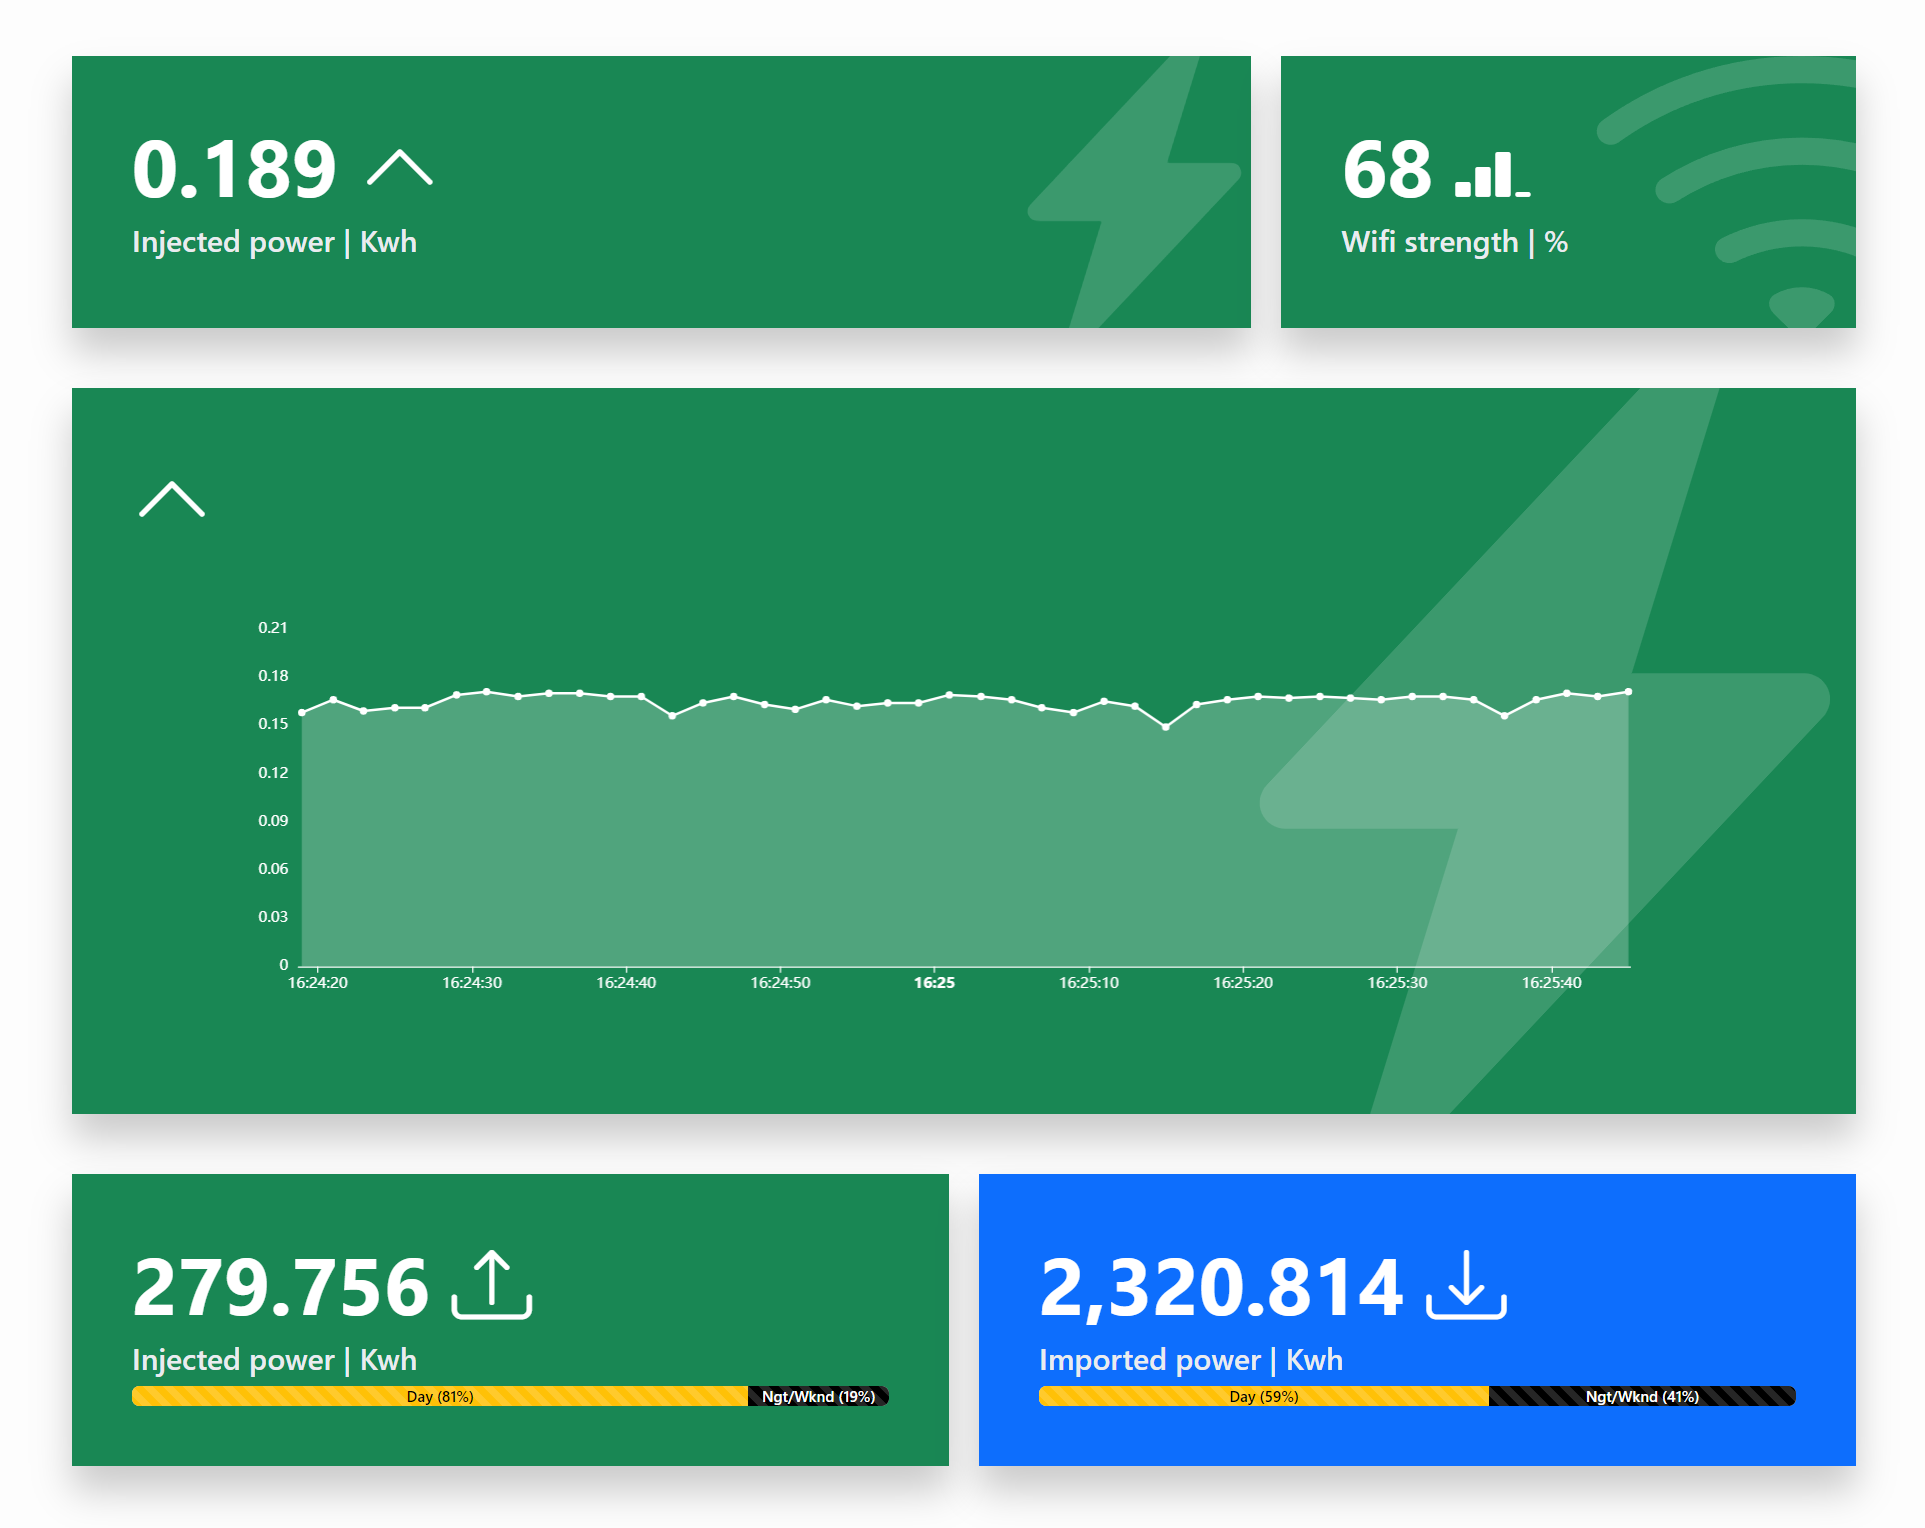
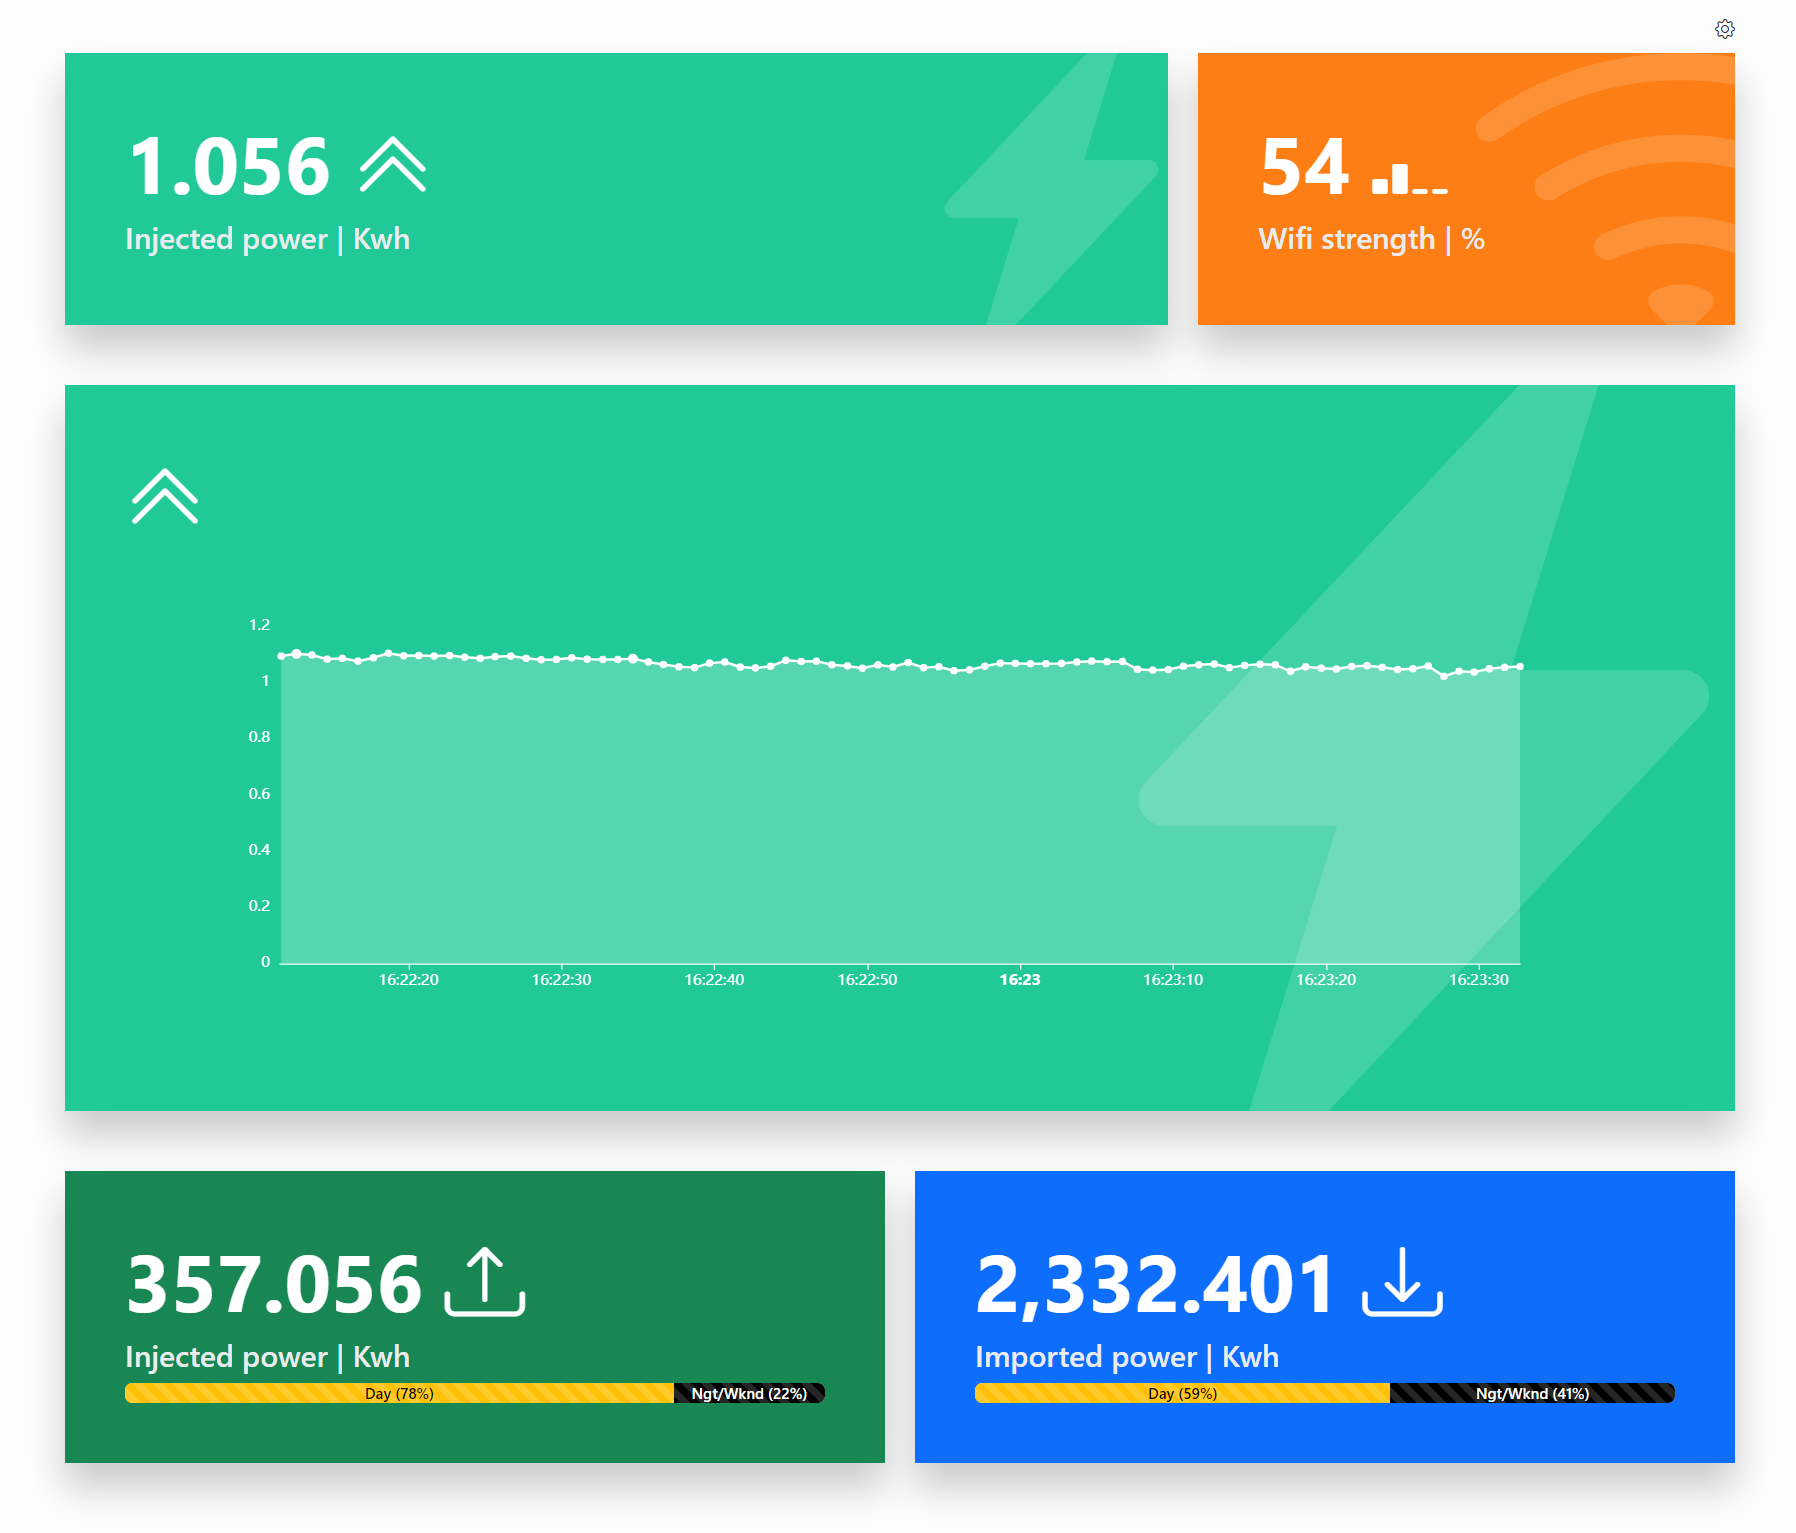
Added features section with images & some minor updates to other sections

diff --git a/README.md b/README.md
@@ -1,21 +1,46 @@
 # HomeWizard Local Energy
 
-> Note: Still under development > Alpha
-
 A responsive dashboard compatible with [HomeWizard's P1 Energy Meter](https://www.homewizard.com/).
 - The dashboard relies on the [P1's Local API](https://homewizard-energy-api.readthedocs.io/) being enabled
 
+## Features
+
+### Dashboard
+
+The widgets dynamically change their colour & icon based injection v.s. importing or based on quality (e.g. wi-fi strength). 
+
 ![dashboard.png](dashboard.png)
+
+#### Live power data
+The P1 meter is pollable each 1s, _this rate is used & hard-coded_. 
+- View the current (live) amount of power you are injecting (or importing)
+- View a graph of the current (live) amount of power you are injecting (or importing)
+- View the current (live) wi-fi strength of the P1 Meter
+
+#### Historical power data
+- View the historical amount of power you have injected (day v.s. night / weekend)
+- View the historical amount of power you have imported (day v.s. night / weekend)
+
+### Settings
+
+![settings.png](settings.png)
+
+The following settings can be changed using the gear icon on the top-right.
+- The local IP of the P1 meter's local API
+- The buffer size in minutes of data that graph widget will display
+  - E.g. with a buffer size of 15 minutes & a hard-coded polling interval of 1 second, the graph will display 900 data points.
+
+_Changing these settings requires a browser refresh, for now._
 
 ## Run locally
 
 Run `ng serve` for a dev server. Navigate to `http://localhost:4200/`. The application will automatically reload if you change any of the source files.
 
-## Todo
-- [ ] Create global changeable settings (interval, p1 meter IP, How long to keep graph (15m),...)
-  - On empty local storage: prompt user for P1 Meter IP
+## Development Todos
 - [ ] Improve reuse between both power-injection components
 - [ ] Improve reuse between cards (all components use & style them separately now)
 - [ ] Create GitHub action for building artifact and releasing
+- [ ] Add widget(s) for Gas
+- [x] Create global changeable settings (interval, p1 meter IP, How long to keep graph (15m),...)
 - [x] Format hours, minutes, seconds with leading zero's in tooltip of graph
 - [x] Remove bootstrap component library
